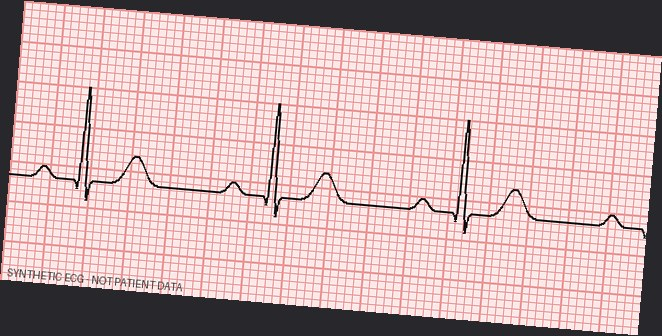
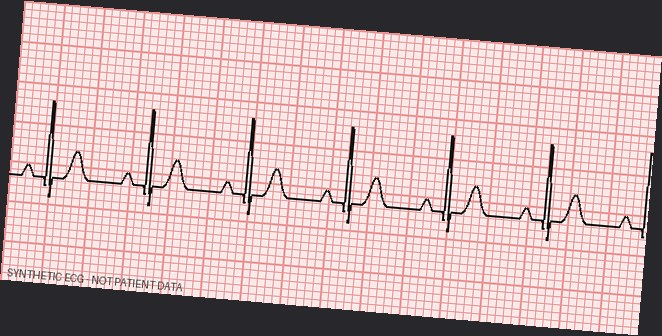
R26: banco - S2-08 con frecuencia de taquicardia, texto legible a 360 px, justificacion y limites de los esquemas, parametros del generador y escala movil
Claude-Session: https://claude.ai/code/session_01VWLTZ9C5nfi5t6bbmYMHeX

Changed region(s): [[0.3323, 0.3274, 0.997, 0.7143], [0.0302, 0.2679, 0.3021, 0.625]]

diff --git a/clinical/lab/human_factors/bank_r23.py b/clinical/lab/human_factors/bank_r23.py
@@ -43,6 +43,16 @@ EXPECTED = {(14, 1): T01, (14, 2): T01, (15, 1): T03, (15, 2): T04}
 GENERATED_FILES = {"S1-08": "S1-08.jpg", "S2-08": "S2-08.jpg", "S1-09": "S1-09.webp", "S2-09": "S2-09.jpg", "S1-13": "S1-13.pdf",
                    "S2-13": "S2-13.jpg", "S1-14": "S1-14.png", "S2-14": "S2-14.pdf", "S1-15": "S1-15.jpg", "S2-15": "S2-15.pdf"}
 PROCEDURAL_SCHEMATIC = {"S1-08", "S2-08", "S1-09", "S2-09", "S2-13"}   # R25: schematic renders, NOT clinical imagery
+SCHEMATIC_JUSTIFICATION = ("Stage 1 measures usage errors (modality selection, confirmation, false cancellation, comprehension of technical abstentions), not "
+                           "diagnostic performance. For the legitimate-negative controls (scenario F) the stimulus only has to be recognizable as its true "
+                           "modality and technically valid (RGB photo, no DICOM) so that the pipeline must NOT block it. A schematic is a candidate for that "
+                           "narrow role only; it is NOT assumed valid until two independent reviewers rate realism >= 4/5 and the owner signs.")
+SCHEMATIC_LIMITS = {
+    "S2-09": "Identical waveform in every lead: not a physiologically valid 12-lead ECG; expected to fail the realism review unless replaced.",
+    "S1-09": "Monitor strip is a flat render with a gradient reflection; no multiparametric monitor chrome.",
+    "S1-08": "Clean synthetic paper render; no print noise, no stray marks.", "S2-08": "Clean synthetic paper render; no print noise, no stray marks.",
+    "S2-13": "Synthetic text sheet with placeholder values (0,0); header and layout are generic.",
+}
 IMPEDIMENT = {
     "skin_wound": "Needs authorized synthetic or open-licence skin/wound photographs with controlled skin tone and lighting; a procedural drawing "
                   "would not be a scientifically adequate stimulus for appearance, skin tone or lighting variables.",
@@ -87,6 +97,25 @@ def _procedural_jpeg_truncated():
     return data[: int(len(data) * 0.45)]          # valid SOI + headers, truncated entropy-coded data: decoding fails
 
 
+def _font(size):
+    from PIL import ImageFont
+    try:
+        return ImageFont.load_default(size=size)
+    except TypeError:                                  # Pillow < 10.1: fixed bitmap font
+        return ImageFont.load_default()
+
+
+PX_PER_MM, PAPER_SPEED_MM_S = 8, 25                   # grid: 1 mm = 8 px; 25 mm/s -> 1 px = 5 ms
+ECG_RR_PX = {"S1-08": 190, "S2-08": 100, "S1-09": 190, "S2-09": 190}
+
+
+def ecg_parameters(stimulus_id):
+    """Rate derived from the generator constants (not measured from pixels): RR[px] * 5 ms."""
+    rr_ms = ECG_RR_PX[stimulus_id] * 1000.0 / (PX_PER_MM * PAPER_SPEED_MM_S)
+    return {"heart_rate_bpm": round(60000.0 / rr_ms), "paper_speed_mm_s": PAPER_SPEED_MM_S, "grid_px_per_mm": PX_PER_MM,
+            "rhythm": "regular synthetic sinus-like", "st_elevation": False}
+
+
 def _ecg_wave(width, amplitude=1.0, rr=190):
     """Synthetic sinus rhythm (P, QRS, T; isoelectric ST). Pure arithmetic, deterministic, no clinical data."""
     import math
@@ -100,7 +129,7 @@ def _ecg_wave(width, amplitude=1.0, rr=190):
     return ys
 
 
-def _ecg_strip(size, paper=(252, 232, 232), grid=(236, 150, 150), trace=(20, 20, 20), leads=1, label="SYNTHETIC ECG - NOT PATIENT DATA"):
+def _ecg_strip(size, paper=(252, 232, 232), grid=(236, 150, 150), trace=(20, 20, 20), leads=1, label="SYNTHETIC ECG - NOT PATIENT DATA", rr=190):
     from PIL import Image, ImageDraw
     width, height = size
     img = Image.new("RGB", size, paper)
@@ -114,7 +143,7 @@ def _ecg_strip(size, paper=(252, 232, 232), grid=(236, 150, 150), trace=(20, 20,
     cell_w, cell_h = width // n_cols, height // n_rows
     for r in range(n_rows):
         for c in range(n_cols):
-            wave = _ecg_wave(cell_w, amplitude=0.8 + 0.1 * ((r + c) % 3))
+            wave = _ecg_wave(cell_w, amplitude=0.8 + 0.1 * ((r + c) % 3), rr=rr)
             base = r * cell_h + cell_h * 0.62
             pts = [(c * cell_w + x, base - v * cell_h * 0.42) for x, v in enumerate(wave)]
             draw.line(pts, fill=trace, width=2)
@@ -132,8 +161,8 @@ def _tilted(img, degrees, background=(40, 40, 44)):
     return img.rotate(degrees, resample=3, expand=True, fillcolor=background)
 
 
-def _ecg_paper_photo(degrees):
-    return _encode(_tilted(_ecg_strip((640, 280)), degrees), "JPEG", quality=88)
+def _ecg_paper_photo(degrees, rr):
+    return _encode(_tilted(_ecg_strip((640, 280), rr=rr), degrees), "JPEG", quality=88)
 
 
 def _ecg_monitor_webp():
@@ -161,14 +190,15 @@ def _ecg_12_lead_jpeg():
 
 def _printed_sheet_photo():
     from PIL import Image, ImageDraw
-    sheet = Image.new("RGB", (480, 640), (248, 247, 242))
+    sheet = Image.new("RGB", (720, 960), (248, 247, 242))
     draw = ImageDraw.Draw(sheet)
+    big, small = _font(30), _font(24)
     lines = ["INFORME SINTETICO DE ANALITICA - NO CLINICO", "", "Parametro        Resultado    Referencia",
              "Parametro A      0,0          0,0 - 0,0", "Parametro B      0,0          0,0 - 0,0", "Parametro C      0,0          0,0 - 0,0", "",
              "ES: Documento ficticio. Ningun dato real.", "PT: Documento ficticio. Nenhum dado real.", "EN: Fictitious document. No real data."]
     for i, text in enumerate(lines):
-        draw.text((30, 40 + i * 24), text, fill=(30, 30, 30))
-    draw.line([(0, 330), (480, 342)], fill=(215, 213, 205), width=3)     # mild fold
+        draw.text((36, 48 + i * 44), text, fill=(30, 30, 30), font=big if i == 0 else small)
+    draw.line([(0, 500), (720, 516)], fill=(215, 213, 205), width=4)     # mild fold
     return _encode(_tilted(sheet, -7, background=(176, 140, 98)), "JPEG", quality=88)   # light desk, opposite tilt
 
 
@@ -207,7 +237,7 @@ def generate_bytes():
              "PT: Sem febre. Nao se observa derrame. Sem dor referida.", "EN: No fever. No effusion seen. No pain reported."],
             ["INFORME SINTETICO DE PRUEBA - NO CLINICO (pagina 2/2)", "ES: Documento ficticio; ningun dato real; no usar clinicamente.",
              "PT: Documento ficticio; nenhum dado real; nao usar clinicamente.", "EN: Fictitious document; no real data; not for clinical use."]]
-    return {"S1-08.jpg": _ecg_paper_photo(4), "S2-08.jpg": _ecg_paper_photo(-5), "S1-09.webp": _ecg_monitor_webp(),
+    return {"S1-08.jpg": _ecg_paper_photo(4, ECG_RR_PX["S1-08"]), "S2-08.jpg": _ecg_paper_photo(-5, ECG_RR_PX["S2-08"]), "S1-09.webp": _ecg_monitor_webp(),
             "S2-09.jpg": _ecg_12_lead_jpeg(), "S2-13.jpg": _printed_sheet_photo(),
             "S1-13.pdf": _pdf(doc2), "S1-14.png": _procedural_png(),
             "S2-14.pdf": _pdf([["DOCUMENTO SINTETICO DE PRUEBA - NO CLINICO", "Envio valido sin seleccion de modalidad (escenario E1)."]]),
@@ -299,6 +329,18 @@ def audit_metadata(data):
     return findings
 
 
+def _contain_scale(data):
+    """Scale applied when the image is shown with object-fit: contain in a 360x640 viewport (1.0 = no reduction); None for non-images."""
+    if data is None or data[:5] == b"%PDF-":
+        return None
+    try:
+        from PIL import Image
+        img = Image.open(io.BytesIO(data))
+        return round(min(360 / img.width, 640 / img.height, 1.0), 3)
+    except Exception:
+        return None
+
+
 def _file_facts(data):
     """Format and dimensions (images) + automated metadata findings; all None for a stimulus without file."""
     empty = {"image_format": None, "width": None, "height": None, "metadata_findings": None}
@@ -334,6 +376,8 @@ def build_manifest(directory=STIMULI_DIR):
                 "sha256": sha256_bytes(data) if generated else None, "phash_64": dhash64(data) if generated else None,
                 "origin_type": ("synthetic_procedural_schematic" if sid in PROCEDURAL_SCHEMATIC else "synthetic_procedural") if generated else None,
                 **_file_facts(data),
+                "mobile_360x640_contain_scale": _contain_scale(data),
+                "ecg_generator_parameters": ecg_parameters(sid) if sid in ECG_RR_PX else None,
                 "visual_review_status": "PENDING_VISUAL_REVIEW" if generated else "NOT_APPLICABLE_NOT_GENERATED",
                 "clinical_adjudication_status": "PENDING_CLINICAL_ADJUDICATION",
                 "lifecycle_status": "GENERATED_NOT_ADJUDICATED" if generated else PENDING,
@@ -341,7 +385,9 @@ def build_manifest(directory=STIMULI_DIR):
                     "realism_review_360x640": {"required": "clinical realism >= 4/5 from EACH of 2 independent reviewers, unambiguous true modality, agreed pair difficulty",
                                                "reviewer_1": "PENDING", "reviewer_2": "PENDING", "third_adjudicator_if_disagreement": "PENDING"},
                     "visual_derivative_inspection": "PENDING", "freeze_seal_eligible": False,
-                    "validity_note": "NOT_ASSUMED_VALID_REQUIRES_REALISM_REVIEW" if sid in PROCEDURAL_SCHEMATIC else None},
+                    "validity_note": "NOT_ASSUMED_VALID_REQUIRES_REALISM_REVIEW" if sid in PROCEDURAL_SCHEMATIC else None,
+                    "validity_justification": SCHEMATIC_JUSTIFICATION if sid in PROCEDURAL_SCHEMATIC else None,
+                    "known_limitations": SCHEMATIC_LIMITS.get(sid)},
                 "generation_impediment": None if generated else IMPEDIMENT.get(true_modality if sid != "S2-13" else "document"),
                 "license_ref": "CC0-1.0 (content generated by project code; no third-party material)" if generated else None,
                 "phi_audit_passed": None, "phi_audit_status": "AUTOMATED_SCAN_ONLY_HUMAN_REVIEW_PENDING" if generated else "NOT_APPLICABLE_NOT_GENERATED",

diff --git a/clinical/tests/test_r25_bank.py b/clinical/tests/test_r25_bank.py
@@ -111,5 +111,37 @@ class GeminiCriteria(unittest.TestCase):
         self.assertIn("not a PHI review", report["scope"])
 
 
+class Plausibility(unittest.TestCase):
+    def test_ecg_rates_follow_the_stimulus_specification(self):
+        rate = {s["stimulus_id"]: s["ecg_generator_parameters"]["heart_rate_bpm"] for s in M["stimuli"] if s["ecg_generator_parameters"]}
+        self.assertEqual(set(rate), {"S1-08", "S2-08", "S1-09", "S2-09"})
+        self.assertTrue(60 <= rate["S1-08"] <= 100, rate)       # sinus rhythm
+        self.assertGreater(rate["S2-08"], 100)                  # sinus tachycardia (R25 sheet S2-08)
+        for s in M["stimuli"]:
+            if s["ecg_generator_parameters"]:
+                self.assertFalse(s["ecg_generator_parameters"]["st_elevation"])
+                self.assertEqual(s["ecg_generator_parameters"]["paper_speed_mm_s"], 25)
+
+    def test_schematics_carry_a_justification_and_their_limits(self):
+        for s in M["stimuli"]:
+            rc = s["review_controls"]
+            if s["stimulus_id"] in bank.PROCEDURAL_SCHEMATIC:
+                self.assertIn("NOT assumed valid", rc["validity_justification"])
+                self.assertTrue(rc["known_limitations"])
+            else:
+                self.assertIsNone(rc["validity_justification"])
+        twelve = next(s for s in M["stimuli"] if s["stimulus_id"] == "S2-09")["review_controls"]["known_limitations"]
+        self.assertIn("not a physiologically valid 12-lead", twelve)
+
+    def test_mobile_scale_is_recorded_for_images_only(self):
+        for s in M["stimuli"]:
+            if s["file"] and s["image_format"] == "PDF":
+                self.assertIsNone(s["mobile_360x640_contain_scale"])
+            elif s["file"] and s["phash_64"]:
+                self.assertTrue(0 < s["mobile_360x640_contain_scale"] <= 1.0)
+            if s["stimulus_id"] == "S2-13":
+                self.assertGreaterEqual(s["mobile_360x640_contain_scale"], 0.4)   # the printed text must survive the reduction
+
+
 if __name__ == "__main__":
     unittest.main()
